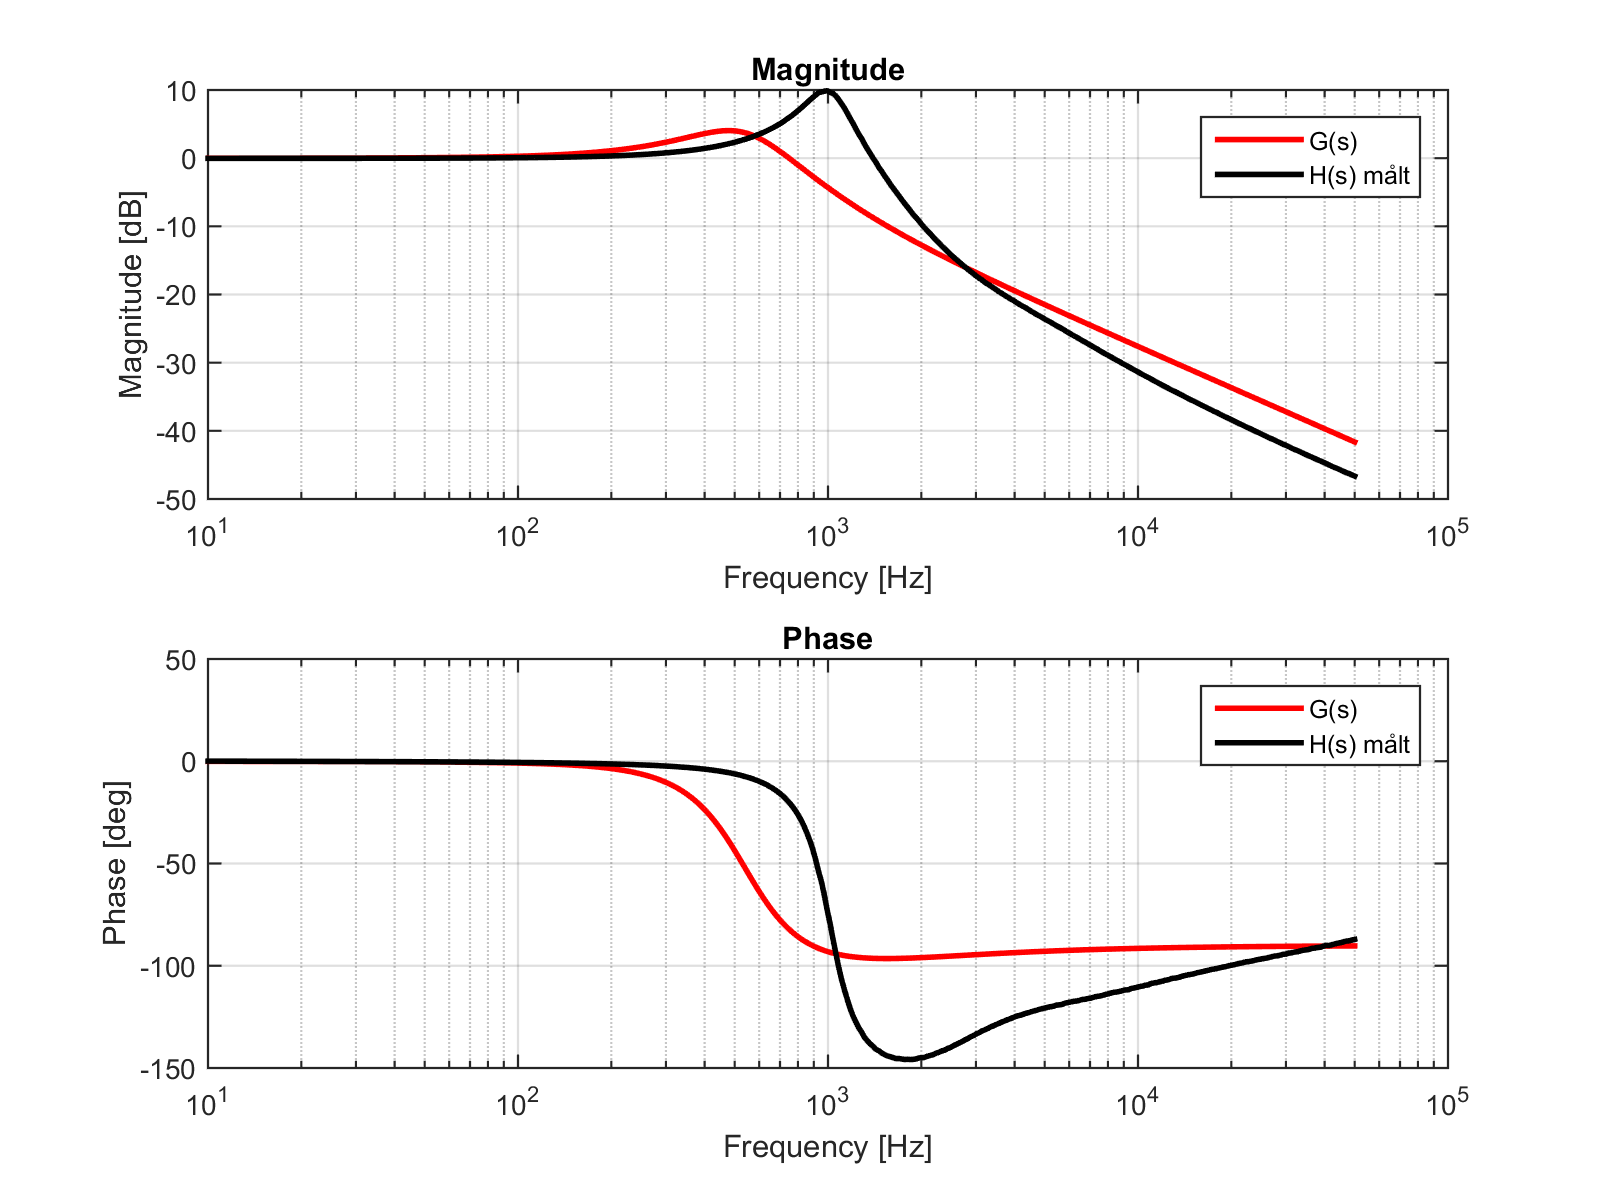
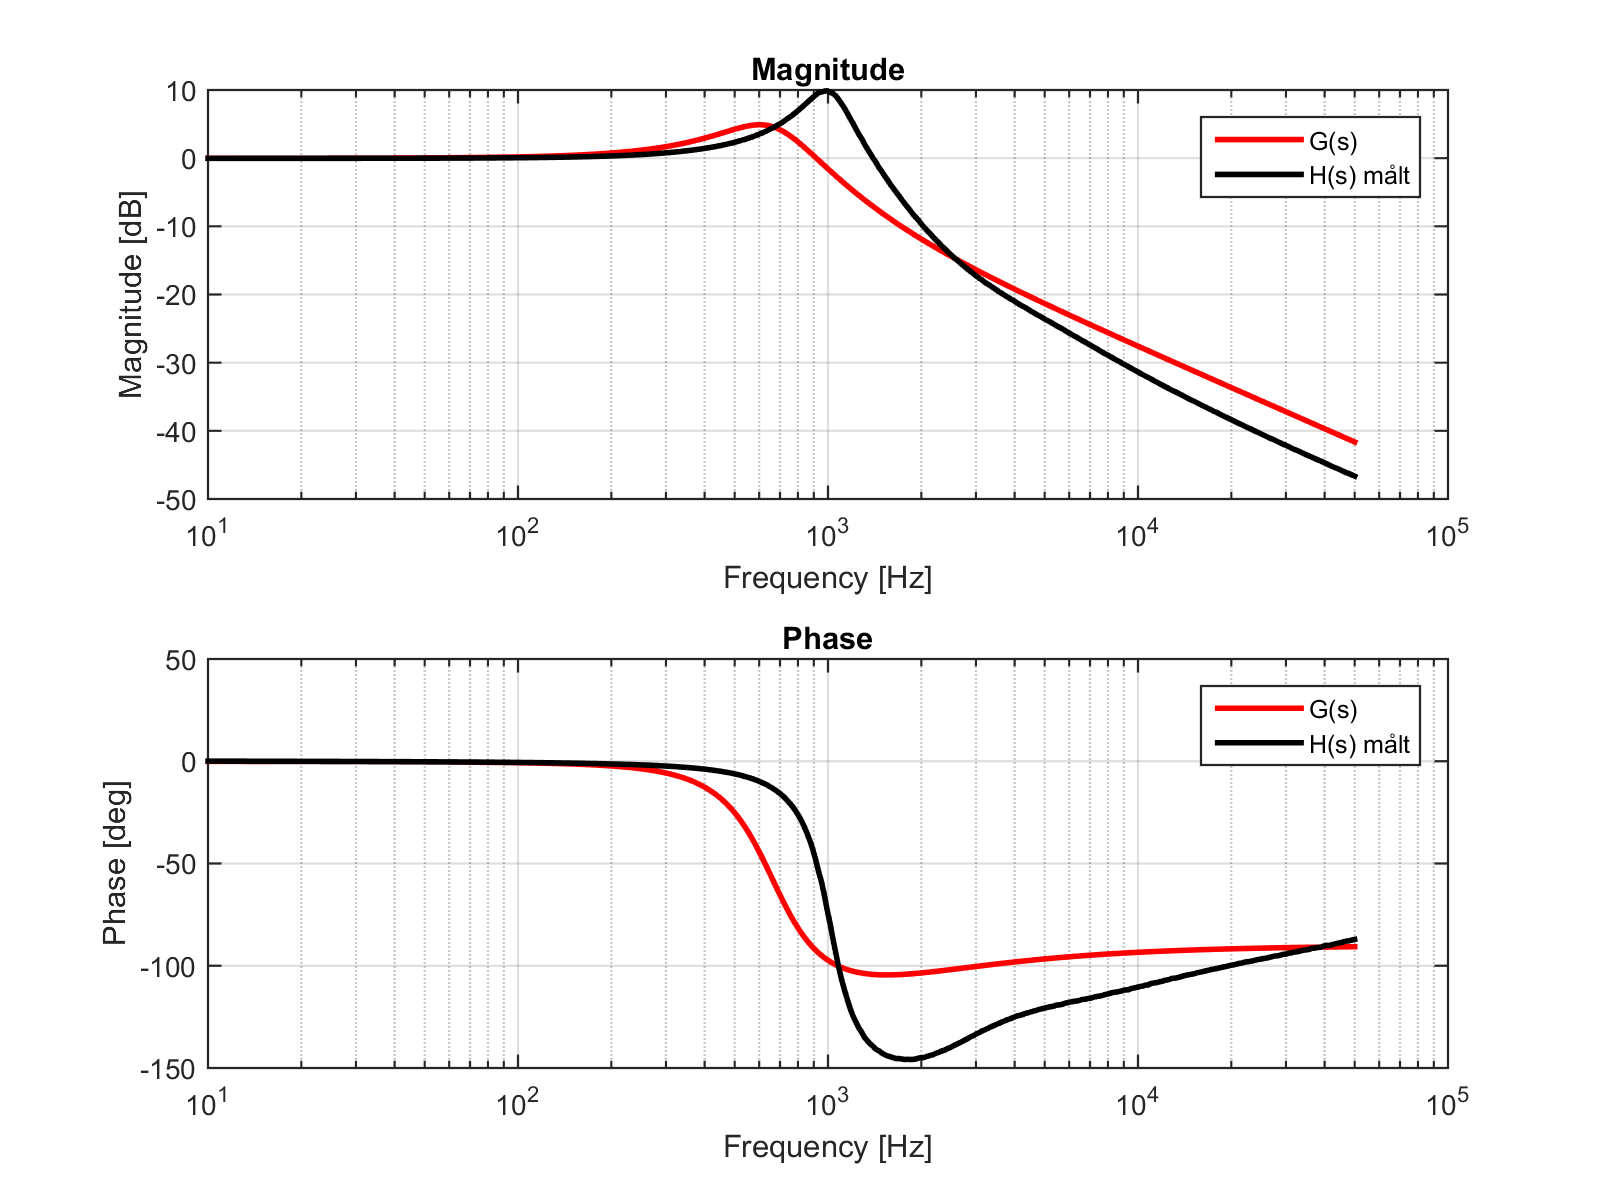
Rettet med ny komponent værdi og ny eval.

diff --git a/reg1/spm2.tex b/reg1/spm2.tex
@@ -4,6 +4,5 @@ Ved brug af Omnicron Bode 100, blev buck-konverterensudgangsfilter målt med fø
 	\item Frekvensinterval : $ 10 Hz - 50 kHz  $
 	\item Eksport af Gain (dB) og Fase (grader)
 	\item Sampling punkter per decade : $401$
-	\item Filter bestående af $L=xx$ og $C=xx $
+	\item Filter bestående af $L=250\si{\micro\henry}$ og $C=220 \si{\micro\farad} $
 \end{itemize}
-\husk{JJ}{Evt. diagram af filter ?}

diff --git a/reg1/spm4.tex b/reg1/spm4.tex
@@ -25,4 +25,3 @@ Ud fra data der ligger grund for målingerne i figur \ref{fig:esrplot} og \ref{f
 \section*{Noter til målinger}
 Der er stor usikkerhed om de fortagede målinger er udført korrekt og derved om de fundne værdier kan bruges i efterfølgende design.
 Desuden mangler måling af kondensatorens kapacitet ved resonans.
-\husk{JJ}{Støj ved lave frekvenser i fig. \ref{fig:lsplot}}

diff --git a/reg1/spm6.tex b/reg1/spm6.tex
@@ -1,2 +1,3 @@
-\section{Sammenligning og kommenter af de tre amplitude- og fase-plots}\label{sec:spm6}
-\husk{JJ}{Sammenligning etc. mangler her}
+\section{Konklusion - Sammenligning og kommenter af de tre amplitude- og fase-plots}\label{sec:spm6}
+
+\husk{JJ}{Støj ved lave frekvenser i fig. \ref{fig:lsplot}}

diff --git a/reg1/reg1_all.m b/reg1/reg1_all.m
@@ -5,7 +5,7 @@ close all
 % Component values
 r = 0.68
 R = 15
-c = 330E-6
+c = 220E-6
 l = 250E-6
 
 % Data import gain from BODE 100
@@ -35,7 +35,7 @@ H = tf(num,den)
 % Correctet Component values
 r_c = .254
 R_c = 15
-c_c = 330E-6
+c_c = 220E-6
 l_c = 82E-6
 
 % Correctet Transfer fuction

diff --git a/reg1.tex b/reg1.tex
@@ -43,6 +43,7 @@
 \input{reg1/reg1_chap}
 
 %---------- Parts ----------------
+\input{reg1/intro_teori}
 \input{reg1/spm1}
 \input{reg1/spm2}
 \input{reg1/spm3}

diff --git a/reg1/reg1.m b/reg1/reg1.m
@@ -5,7 +5,7 @@ close all
 % Component values
 r = 0.68
 R = 15
-c = 330E-6
+c = 220E-6
 l = 250E-6
 vin = 25
 d = 0.6

diff --git a/reg1/intro_teori.tex b/reg1/intro_teori.tex
@@ -1,0 +1,4 @@
+\section{Introduktion}\label{sec:intro}
+
+
+\section{Teori}\label{sec:teori}
